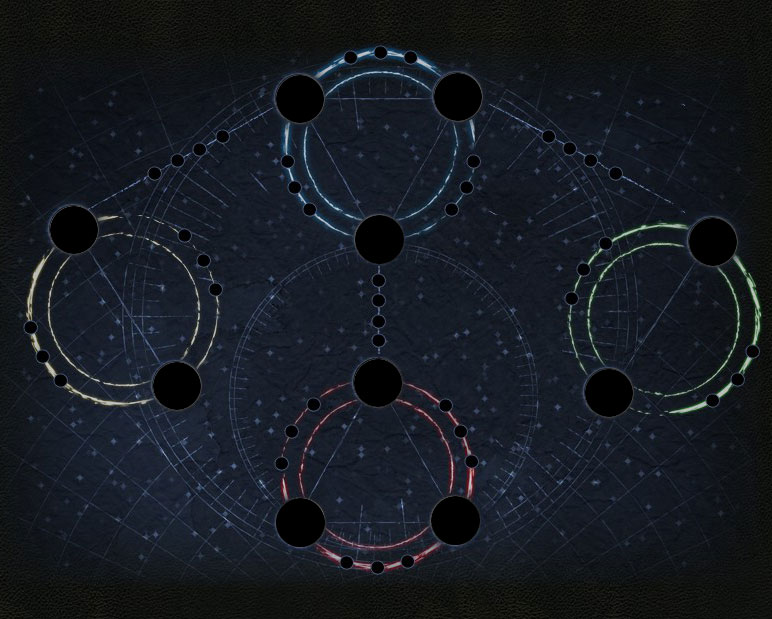
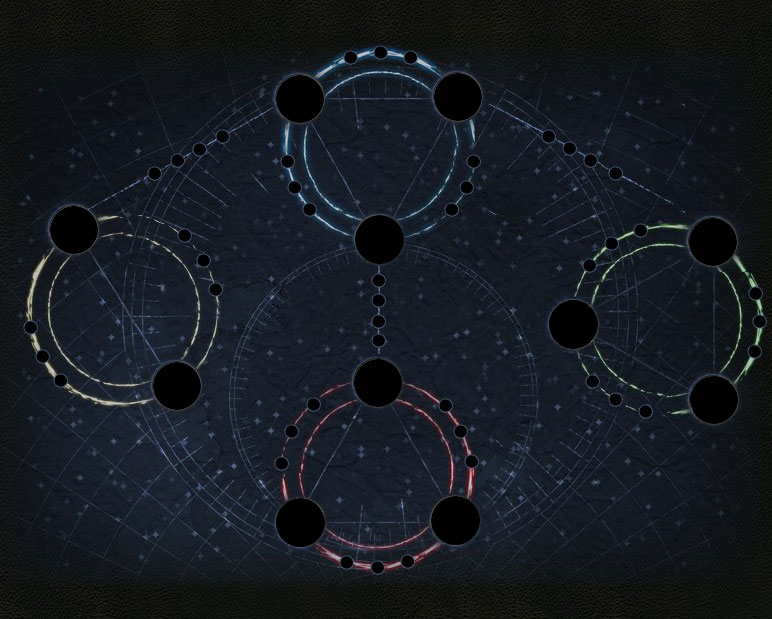
updates

Changed region(s): [[0.715, 0.3376, 0.9948, 0.706]]

diff --git a/assets/src/_tree.sass b/assets/src/_tree.sass
@@ -1,8 +1,8 @@
 .tree
   width: 799px
-  height: 665px
   position: relative
   margin: 0 auto 50px
+  min-height: 700px
   article
     hgroup
       width: 100%
@@ -26,8 +26,29 @@
 aside,
 article
   float: left
+
+aside .skills,
+aside .twist,
+aside.nav
+  width: 220px
+
+.tree
+  aside 
+    .skills
+      height: 400px
+      margin-top: 45px !important
+      overflow: auto
+
+aside .twist
+  height: 200px
+  margin-top: 0
   
-aside
+aside .twist,
+aside .skills
+  border: 1px #716664 solid
+  margin: 10px
+
+aside.nav
   width: 227px
   height: 616px
   margin: 20px 11px 0 16px
@@ -59,7 +80,8 @@ aside
         +background-image(linear-gradient(top, #43569b, #1d2643))
         +box-shadow(inset 0 0 6px #6b7dbb)
     .shiradi_champion,
-    .fury_of_the_wild
+    .fury_of_the_wild,
+    .primal_avatar
       +box-shadow(inset 0 0 28px rgba(40, 160, 43, 0.45))
       &.active
         +background-image(linear-gradient(top, #4c8246, #143511))
@@ -106,6 +128,8 @@ aside
   background: image-url("backgrounds/trees/shiradi_champion.png")
 .trees-unyielding_sentinel
   background: image-url("backgrounds/trees/unyielding_sentinel.png")
+.trees-primal_avatar
+  background: image-url("backgrounds/trees/primal_avatar.png")
   
 .gridrow
   .griditem
@@ -219,6 +243,7 @@ button
 @import "sprites/grandmaster_of_flowers/*.png"
 @import "sprites/legendary_dreadnought/*.png"
 @import "sprites/magister/*.png"
+@import "sprites/primal_avatar/*.png"
 @import "sprites/shadowdancer/*.png"
 @import "sprites/unyielding_sentinel/*.png"
 @import "sprites/shiradi_champion/*.png"
@@ -250,6 +275,9 @@ button
 +all-grandmaster_of_flowers-sprites
 +all-legendary_dreadnought-sprites
 +all-magister-sprites
++all-primal_avatar-sprites
 +all-shadowdancer-sprites
 +all-shiradi_champion-sprites
 +all-unyielding_sentinel-sprites
+
+

diff --git a/src/builder/modules/tree.js b/src/builder/modules/tree.js
@@ -17,6 +17,7 @@
             "grandmaster_of_flowers",
             "legendary_dreadnought",
             "magister",
+            "primal_avatar",
             "shadowdancer",
             "shiradi_champion",
             "unyielding_sentinel"
@@ -216,7 +217,7 @@
       self.currentPath = path;
       self.currentModel = model;
       // append the hogan template to the ID
-      $(this.el).html(builder.fetchAndRender('embed',{partial: [this.templateName, 'class', 'ability', 'tooltip', 'autogrant-ability', 'autogrant-tooltip', 'footer', 'header'], collection: collection, model: model, options: {tree: "tree"}}));
+      $(this.el).html(builder.fetchAndRender('embed',{partial: [this.templateName, 'class', 'ability', 'tooltip', 'autogrant-ability', 'autogrant-tooltip', 'footer', 'header'/*, 'twist', 'twists'*/], collection: collection, model: model, options: {tree: "tree"}}));
       
       $("aside").find("li").removeClass("active");
       $("aside").find("."+path).addClass("active");

diff --git a/assets/src/_map.sass b/assets/src/_map.sass
@@ -43,8 +43,11 @@
     left: 138px
     top: 7px
   .fw
-    left: 34px
-    top: 159px
+    left: 140px
+    top: 166px
+  .pa
+    left: -1px
+    top: 91px
   
 .arcane
   left: 265px
@@ -68,7 +71,8 @@
 .fw,
 .fs,
 .di,
-.mg
+.mg,
+.pa
   position: absolute
   a
     div
